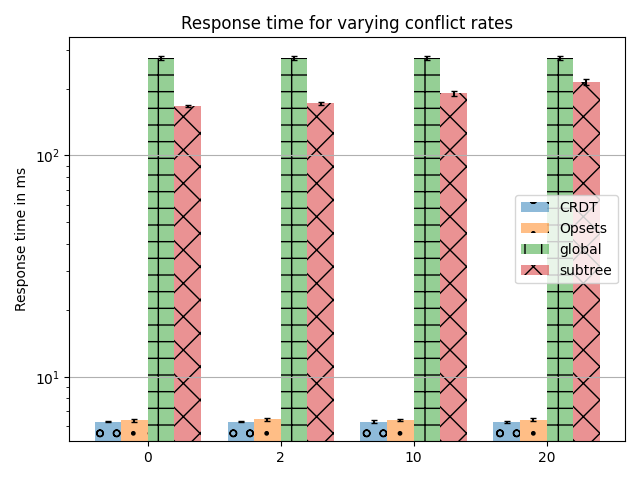
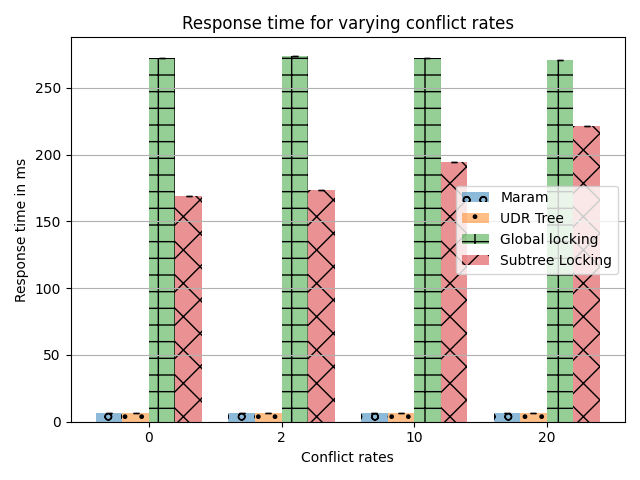
graph scale and legends changed

diff --git a/reports/report_generator.py b/reports/report_generator.py
@@ -16,7 +16,8 @@ from datetime import datetime, timedelta
 
 replicas = ['paris','bangalore','newyork']
 
-experiments = ['CRDT Tree', 'Opsets based tree', 'Tree with global lock', 'Tree with subtree locks']
+experiments = ['Maram', 'UDR Tree', 'Global locking', 'Subtree Locking'] 
+# 'CRDT Tree', 'Opsets based tree', 'Tree with global lock', 'Tree with subtree locks']
 
 def parse_logs(lc_config, exp, conflict, run):
   data = {}
@@ -277,7 +278,7 @@ for l in [1, 2, 3]:
       move_responses[l][c][e] = []
       stabilizations[l][c][e] = []
 
-for run in range(1, 16):
+for run in range(1, 2):
   for i in [3, 2, 1]:
     # print("LATENCY CONFIG " + str(i) + " \n")
     res0, res1, resm = result(i,run)
@@ -314,11 +315,40 @@ bar2 = ax.bar(x_pos + width/2, resp2, width, yerr=resperr2, align='center', alph
 bar3 = ax.bar(x_pos + 1.5*width, resp3, width, yerr=resperr3, align='center', alpha=0.5, hatch='x', capsize=2)
 ax.set_ylabel('Response time in ms')
 ax.set_xticks(x_pos)
+ax.set_xlabel('Conflict rates')
 ax.set_xticklabels([0, 2, 10, 20])
 ax.set_title('Response time for varying conflict rates')
-ax.legend((bar0[0], bar1[0], bar2[0], bar3[0]), ('CRDT', 'Opsets', 'global', 'subtree'))
+ax.legend((bar0[0], bar1[0], bar2[0], bar3[0]), ('Maram', 'UDR Tree', 'Global locking', 'Subtree Locking'))
 ax.yaxis.grid(True)
 plt.yscale('log') #logarithmic scale
+
+# Save the figure and show
+plt.tight_layout()
+plt.savefig('response_time_log.png')
+# plt.show()
+
+resp0 = [np.mean(np.array(responses[2][con][0])) for con in responses[2]]
+resperr0 = [np.std(np.array(responses[2][con][0])) for con in responses[2]]
+resp1 = [np.mean(np.array(responses[2][con][1])) for con in responses[2]]
+resperr1 = [np.std(np.array(responses[2][con][1])) for con in responses[2]]
+resp2 = [np.mean(np.array(responses[2][con][2])) for con in responses[2]]
+resperr2 = [np.std(np.array(responses[2][con][2])) for con in responses[2]]
+resp3 = [np.mean(np.array(responses[2][con][3])) for con in responses[2]]
+resperr3 = [np.std(np.array(responses[2][con][3])) for con in responses[2]]
+
+# Build the plot
+fig, ax = plt.subplots()
+bar0 = ax.bar(x_pos - 1.5*width, resp0, width, yerr=resperr0, align='center', alpha=0.5, hatch='o', capsize=2)
+bar1 = ax.bar(x_pos - width/2, resp1, width, yerr=resperr1, align='center', alpha=0.5, hatch='.', capsize=2)
+bar2 = ax.bar(x_pos + width/2, resp2, width, yerr=resperr2, align='center', alpha=0.5, hatch='+', capsize=2)
+bar3 = ax.bar(x_pos + 1.5*width, resp3, width, yerr=resperr3, align='center', alpha=0.5, hatch='x', capsize=2)
+ax.set_ylabel('Response time in ms')
+ax.set_xticks(x_pos)
+ax.set_xlabel('Conflict rates')
+ax.set_xticklabels([0, 2, 10, 20])
+ax.set_title('Response time for varying conflict rates')
+ax.legend((bar0[0], bar1[0], bar2[0], bar3[0]), ('Maram', 'UDR Tree', 'Global locking', 'Subtree Locking'))
+ax.yaxis.grid(True)
 
 # Save the figure and show
 plt.tight_layout()
@@ -346,11 +376,12 @@ bar2 = ax.bar(x_pos + width/2, mresp2, width, yerr=mresperr2, align='center', al
 bar3 = ax.bar(x_pos + 1.5*width, mresp3, width, yerr=mresperr3, align='center', alpha=0.5, hatch='x', capsize=2)
 ax.set_ylabel('Response time in ms')
 ax.set_xticks(x_pos)
+ax.set_xlabel('Conflict rates')
 ax.set_xticklabels([0, 2, 10, 20])
 ax.set_title('Response time for varying conflict rates')
-ax.legend((bar0[0], bar1[0], bar2[0], bar3[0]), ('CRDT', 'Opsets', 'global', 'subtree'))
+ax.legend((bar0[0], bar1[0], bar2[0], bar3[0]), ('Maram', 'UDR Tree', 'Global locking', 'Subtree Locking'))
 ax.yaxis.grid(True)
-plt.yscale('log') #logarithmic scale
+# plt.yscale('log') #logarithmic scale
 
 # Save the figure and show
 plt.tight_layout()
@@ -373,12 +404,38 @@ bar0 = ax.bar(x_pos - width/2, stab0, width, yerr=staberr0, align='center', alph
 bar1 = ax.bar(x_pos + width/2, stab1, width, yerr=staberr1, align='center', alpha=0.5, hatch='.', capsize=2)
 ax.set_ylabel('Stabilization time in ms')
 ax.set_xticks(x_pos)
-ax.set_xticklabels([1, 2, 3])
+ax.set_xlabel('Latency settings')
+ax.set_xticklabels(['Zero', 'Realworld', '10x realworld'])
 ax.set_title('Stabilization time for varying latency configurations')
-ax.legend((bar0[0], bar1[0]), ('CRDT', 'Opsets'))
+ax.legend((bar0[0], bar1[0]), ('Maram', 'UDR Tree'))
+ax.yaxis.grid(True)
+# Save the figure and show
+plt.tight_layout()
+plt.savefig('stabilization_time_linear.png')
+# plt.show()
+
+x_pos = np.arange(3)
+stab0 = [np.mean(np.array(stabilizations[l][0][0])) for l in stabilizations]
+staberr0 = [np.std(np.array(stabilizations[l][0][0])) for l in stabilizations]
+stab1 = [np.mean(np.array(stabilizations[l][0][1])) for l in stabilizations]
+staberr1 = [np.std(np.array(stabilizations[l][0][1])) for l in stabilizations]
+
+# print(stab0, staberr0)
+# print(stab1, staberr1)
+
+# Build the plot
+fig, ax = plt.subplots()
+bar0 = ax.bar(x_pos - width/2, stab0, width, yerr=staberr0, align='center', alpha=0.5, hatch='o', capsize=2)
+bar1 = ax.bar(x_pos + width/2, stab1, width, yerr=staberr1, align='center', alpha=0.5, hatch='.', capsize=2)
+ax.set_ylabel('Stabilization time in ms')
+ax.set_xticks(x_pos)
+ax.set_xlabel('Latency settings')
+ax.set_xticklabels(['Zero', 'Realworld', '10x realworld'])
+ax.set_title('Stabilization time for varying latency configurations')
+ax.legend((bar0[0], bar1[0]), ('Maram', 'UDR Tree'))
 ax.yaxis.grid(True)
 plt.yscale('log') #logarithmic scale
 # Save the figure and show
 plt.tight_layout()
-plt.savefig('stabilization_time.png')
+plt.savefig('stabilization_time_log.png')
 # plt.show()
